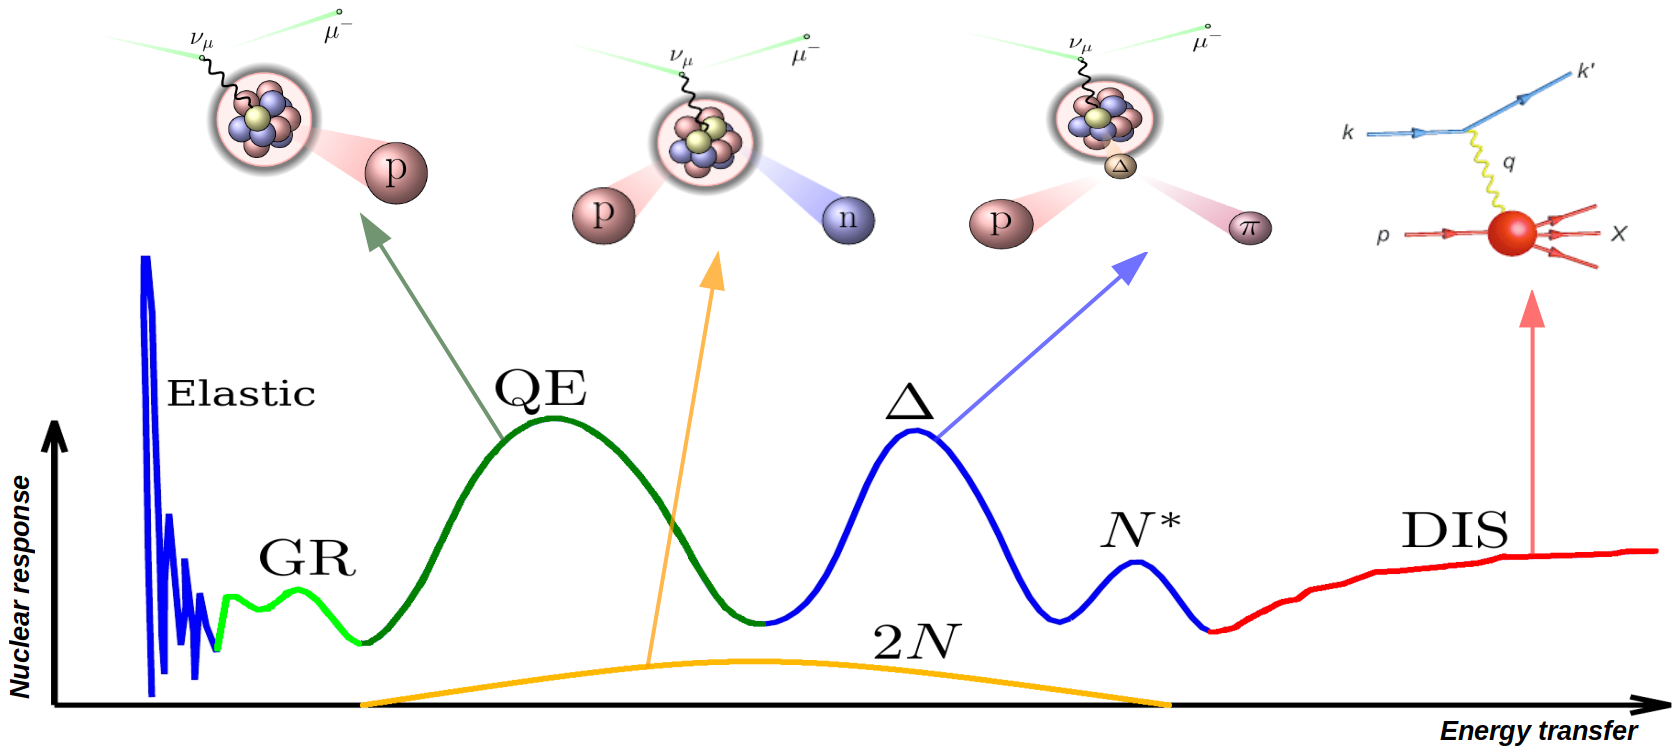
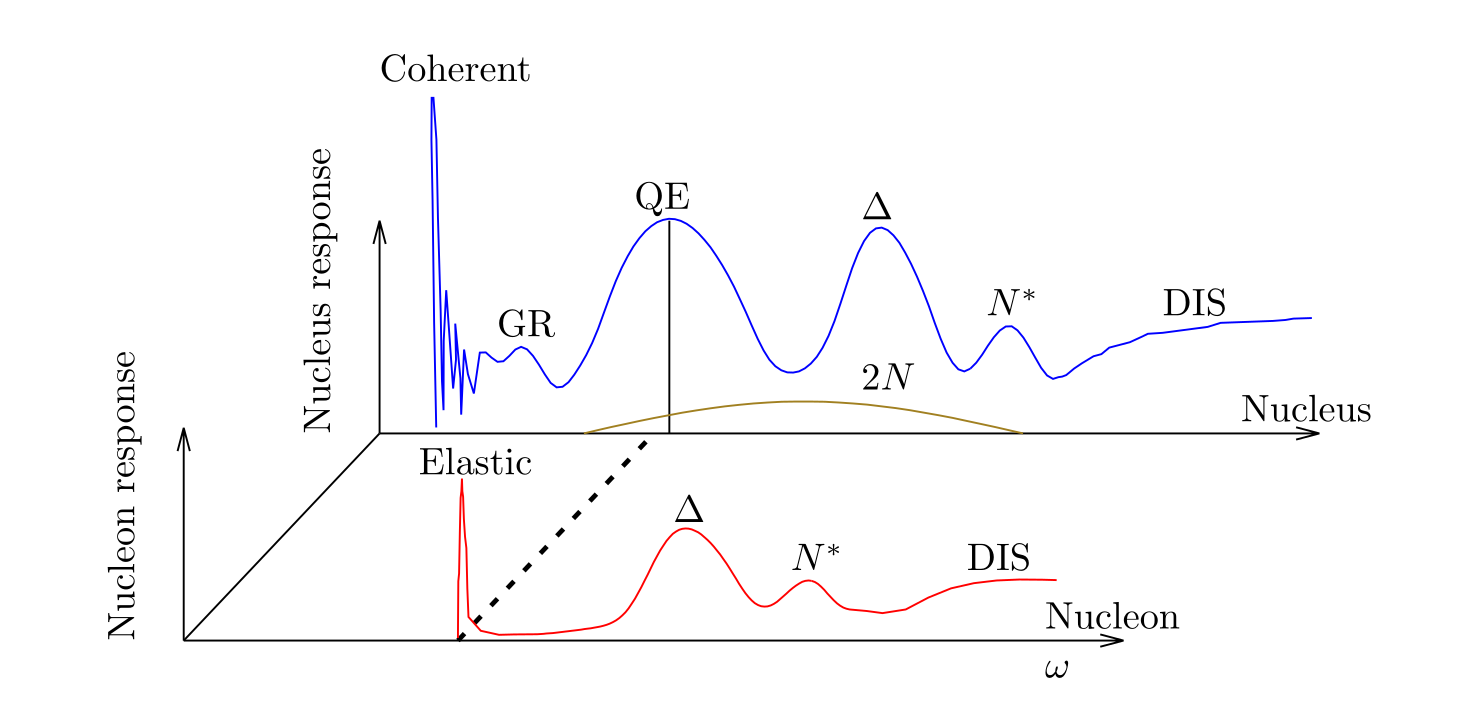
adding picture or slides

diff --git a/_pages/home.md b/_pages/home.md
@@ -30,9 +30,11 @@ Our research focuses on the development of theoretical models for **neutrino–n
             <img src="{{ site.url }}{{ site.baseurl }}/images/slides/mechs.png" alt="Slide 2" />
         </div>
         <div class="item">
-            <img src="{{ site.url }}{{ site.baseurl }}/images/slides/T2K.png" alt="Slide 2" />
+            <img src="{{ site.url }}{{ site.baseurl }}/images/slides/T2K.png" alt="Slide 3" />
         </div>
-        
+        <div class="item">
+            <img src="{{ site.url }}{{ site.baseurl }}/images/slides/monte_carlo_simulations_page-0001.jpg" alt="Slide 4" />
+        </div>
     </div>
   <a class="left carousel-control" href="#carousel" role="button" data-slide="prev">
     <span class="glyphicon glyphicon-chevron-left" aria-hidden="true"></span>
